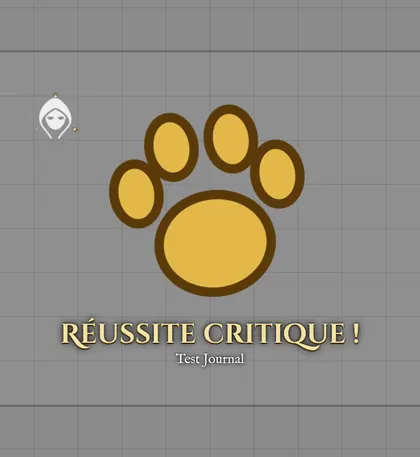
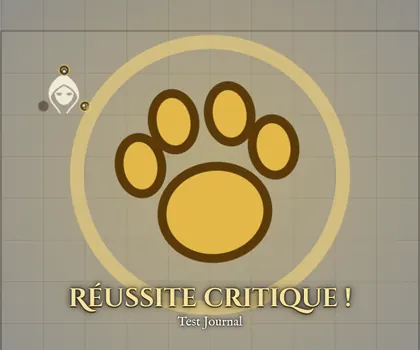
Vitrine : écran d'accueil, onde de choc, fenêtre Les Chats, visites guidées (v0.20.0)
Claude-Session: https://claude.ai/code/session_01SALYwy56TkTcZD44VFpXWx

diff --git a/README.md b/README.md
@@ -4,11 +4,12 @@
 
 <p align="center">
   <b>Incarnez les Chats d'Ulthar face à l'horreur lovecraftienne, sur Foundry Virtual Tabletop.</b><br>
-  Foundry VTT v14 (vérifié sur 14.368) · version 0.19.0 · en français
+  Foundry VTT v14 (vérifié sur 14.368) · version 0.20.0 · en français
 </p>
 
 <p align="center">
   <a href="#installation">Installation</a> ·
+  <a href="#lécran-daccueil">L'écran d'accueil</a> ·
   <a href="#la-fiche-de-chat">La fiche</a> ·
   <a href="#les-règles-automatisées">Les règles</a> ·
   <a href="#les-wikis-et-le-contenu">Wikis et contenu</a> ·
@@ -32,7 +33,28 @@ Dans Foundry : **Systèmes de jeu › Installer un système**, puis collez ce li
 https://github.com/magisterphamtom/miaulements-ulthar/releases/latest/download/system.json
 ```
 
-Créez ensuite un monde avec le système « Les Miaulements d'Ulthar ». Au premier lancement, chaque joueur voit s'ouvrir le wiki des joueurs et le Gardien le wiki du Gardien.
+Créez ensuite un monde avec le système « Les Miaulements d'Ulthar ». À chaque session, l'écran d'accueil s'ouvre pour chaque joueur et pour le Gardien.
+
+## L'écran d'accueil
+
+<img src="docs/vitrine/accueil-tableau.webp" alt="L'écran d'accueil : le tableau d'enquête">
+
+À chaque session, un **tableau d'enquête** couvre l'écran : des coupures de l'Arkham Advertiser punaisées sur du liège, reliées par un fil rouge. Chaque coupure ouvre une page de journal où l'on agit directement, sans fenêtre à chercher.
+
+<table>
+<tr>
+<td width="50%"><img src="docs/vitrine/accueil-createur.webp" alt="Le créateur de Chat"></td>
+<td>
+
+- **Un nouveau Chat arrive à Ulthar** : un créateur façon jeu vidéo. On fait défiler les dix races, on pose ses six modificateurs d'un clic (Santé, Folie et Magie se calculent en direct), on choisit ses pouvoirs, son portrait et son surnom… et le Chat est créé. Ensuite, la même coupure ouvre sa page et sa fiche.
+- **Tout savoir sur la ville des chats** : le wiki se lit dans l'écran (le Gardien a aussi le sien).
+- **La mode d'Arkham** : le thème de la fiche, appliqué en direct.
+- **Pour le Gardien** : « Préparer la partie » importe les compendiums choisis dans le monde, rangés en dossiers ; « Le tableau du Gardien » ouvre son tableau de bord.
+- **Entrer à Ulthar** : l'écran s'efface. Un bouton journal le rouvre à tout moment.
+
+</td>
+</tr>
+</table>
 
 ## La fiche de Chat
 
@@ -134,14 +156,16 @@ La fiche reprend **la fiche de personnage officielle** du livre : les champs son
 <table>
 <tr>
 <td align="center"><img src="docs/vitrine/vies.webp" alt="Les vies de Chat sur le jeton" width="220"><br><sub>Les vies de Chat en couronne de pattes autour du jeton.</sub></td>
-<td align="center"><img src="docs/vitrine/critique-reussite.webp" alt="Réussite critique" width="300"><br><sub>Réussite critique : un coup de patte doré.</sub></td>
-<td align="center"><img src="docs/vitrine/critique-echec.webp" alt="Échec critique" width="300"><br><sub>Échec critique : trois griffures.</sub></td>
+<td align="center"><img src="docs/vitrine/critique-reussite.webp" alt="Réussite critique" width="300"><br><sub>Réussite critique : coup de patte doré, la scène tremble, une onde dorée part du centre.</sub></td>
+<td align="center"><img src="docs/vitrine/critique-echec.webp" alt="Échec critique" width="300"><br><sub>Échec critique : trois griffures et un bord d'écran rouge qui pulse.</sub></td>
 </tr>
 </table>
 
 - **Voile de rêve** : pendant une bulle onirique, les bords de la scène passent en nuit, avec une lune, chez toute la table.
 - **Journal du Chat** : les moments marquants s'inscrivent tout seuls dans l'onglet Notes (critiques, vies perdues, pouvoirs, progrès, cartes Folie, XP).
-- **Vision féline**, **suivi des Chats**, image d'accueil et pause « Le chat fait la sieste ».
+- **Les Chats** : Santé, Magie, Folie et vies des Chats des joueurs connectés, dans une fenêtre qui grandit à chaque arrivée.
+- **Vision féline**, image d'accueil et pause « Le chat fait la sieste ».
+- **Visites guidées** pour les joueurs et pour le Gardien (Paramètres › Visites guidées).
 - Chaque effet visuel peut être désactivé par le joueur ; tout est pensé pour peser le moins possible sur l'ordinateur.
 
 <img src="docs/vitrine/voile.webp" alt="Le voile de rêve pendant une bulle onirique">
@@ -159,4 +183,4 @@ Pour suivre l'avancement : [ETAT.md](ETAT.md). Pour signaler un problème : l'on
 
 ## In English
 
-**Les Miaulements d'Ulthar** is an unofficial Foundry VTT v14 game system for the French tabletop RPG by Xavier Laporte (Xaviiiier), where players are the Cats of Ulthar facing Lovecraftian horror. It is published with the author's permission. Everything is in French: a character sheet based on the official one, a creation wizard, automated D100 rolls, Madness with a real card deck, combat and Cat lives, dream bubbles, two auto-opening wikis, the bestiary, the scenarios and a set of Game Master tools. Install it with the manifest URL above. Parts of the code, added texts and some images were made with the help of AI.
+**Les Miaulements d'Ulthar** is an unofficial Foundry VTT v14 game system for the French tabletop RPG by Xavier Laporte (Xaviiiier), where players are the Cats of Ulthar facing Lovecraftian horror. It is published with the author's permission. Everything is in French: a video-game-like start screen at each session (investigation board with a Cat creator, the wiki and theme choice), a character sheet based on the official one, a creation wizard, automated D100 rolls, Madness with a real card deck, combat and Cat lives, dream bubbles, two auto-opening wikis, the bestiary, the scenarios and a set of Game Master tools. Install it with the manifest URL above. Parts of the code, added texts and some images were made with the help of AI.
